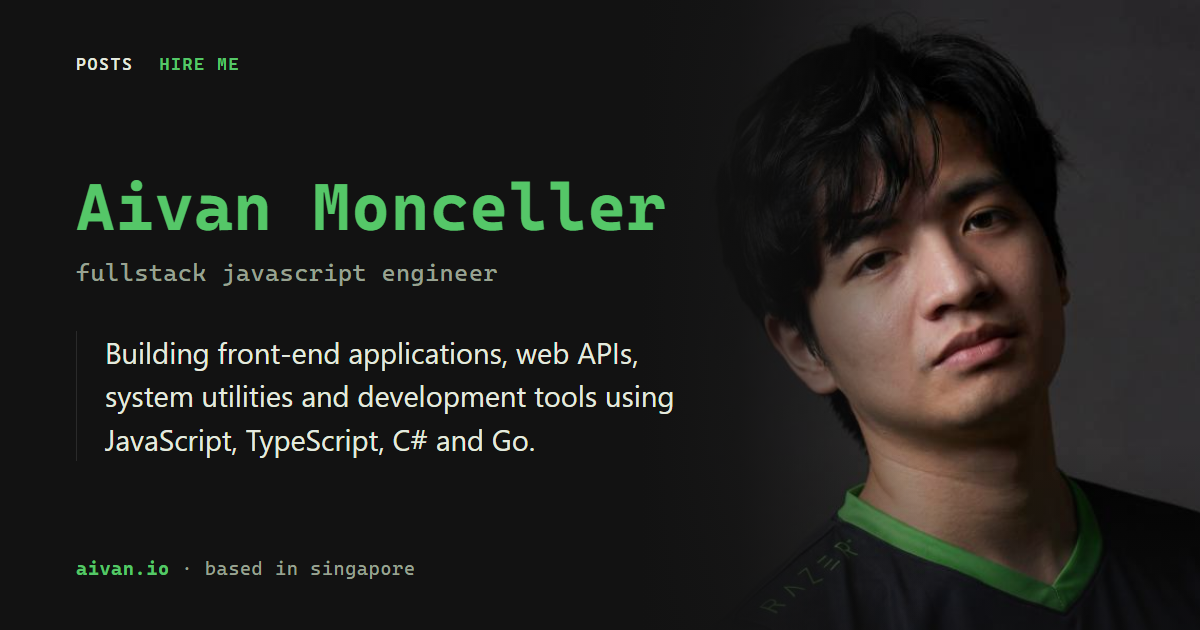
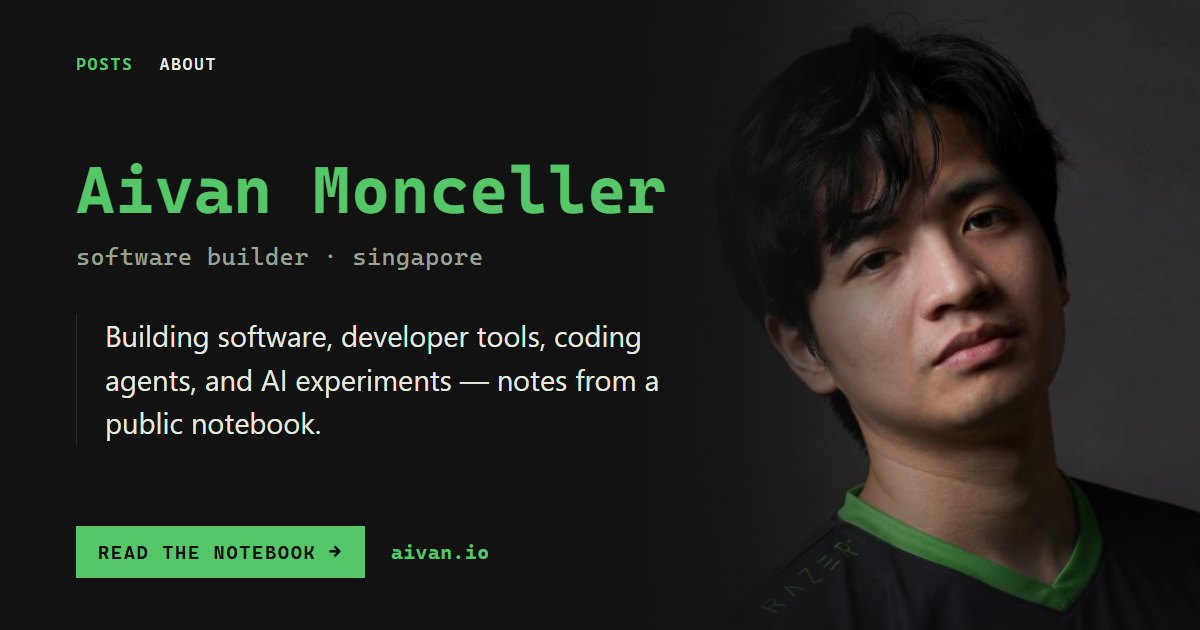
feat(seo): add og:site_name, longer meta descriptions, and CTA on OG card
Home and about descriptions now fall within 120-160 characters; the OG card reflects the current tagline and adds a read-the-notebook call-to-action.

diff --git a/design/og-card.html b/design/og-card.html
@@ -95,9 +95,26 @@
       }
       .foot {
         margin-top: auto;
-        font: 400 19px/1 var(--mono);
+        display: flex;
+        align-items: center;
+        gap: 26px;
+        font: 400 20px/1 var(--mono);
         color: var(--dim);
         letter-spacing: 0.03em;
+      }
+      .cta {
+        display: inline-flex;
+        align-items: center;
+        gap: 12px;
+        padding: 15px 22px;
+        background: var(--red);
+        color: var(--paper);
+        font: 700 19px/1 var(--mono);
+        letter-spacing: 0.09em;
+        text-transform: uppercase;
+      }
+      .cta .arrow {
+        font-size: 22px;
       }
       .foot b {
         color: var(--red);
@@ -110,16 +127,19 @@
       <img class="photo" src="../public/assets/profile.jpg" alt="" />
       <div class="fade"></div>
       <div class="content">
-        <nav class="nav"><span>posts</span><span class="on">hire me</span></nav>
+        <nav class="nav"><span class="on">posts</span><span>about</span></nav>
         <div class="id">
           <h1 class="name">Aivan Monceller</h1>
-          <p class="role">fullstack javascript engineer</p>
+          <p class="role">software builder · singapore</p>
           <p class="def">
-            Building front-end applications, web APIs, system utilities and
-            development tools using JavaScript, TypeScript, C# and Go.
+            Building software, developer tools, coding agents, and AI
+            experiments — notes from a public notebook.
           </p>
         </div>
-        <p class="foot"><b>aivan.io</b> · based in singapore</p>
+        <div class="foot">
+          <span class="cta">Read the notebook <span class="arrow">→</span></span>
+          <span><b>aivan.io</b></span>
+        </div>
       </div>
     </div>
   </body>

diff --git a/src/site.ts b/src/site.ts
@@ -4,6 +4,9 @@ export const site = {
   shortDescription: 'Software Builder',
   description:
     'Building software, developer tools, and AI experiments.',
+  metaDescription:
+    'Aivan Monceller is a software builder in Singapore writing about developer tools, coding agents, local AI, and learning the craft again with AI.',
+  siteName: 'aivan.io',
   siteUrl: 'https://aivan.io',
   imageHost: 'https://cdn.aivan.io',
   analyticsId: 'G-2S179EH3RR',
